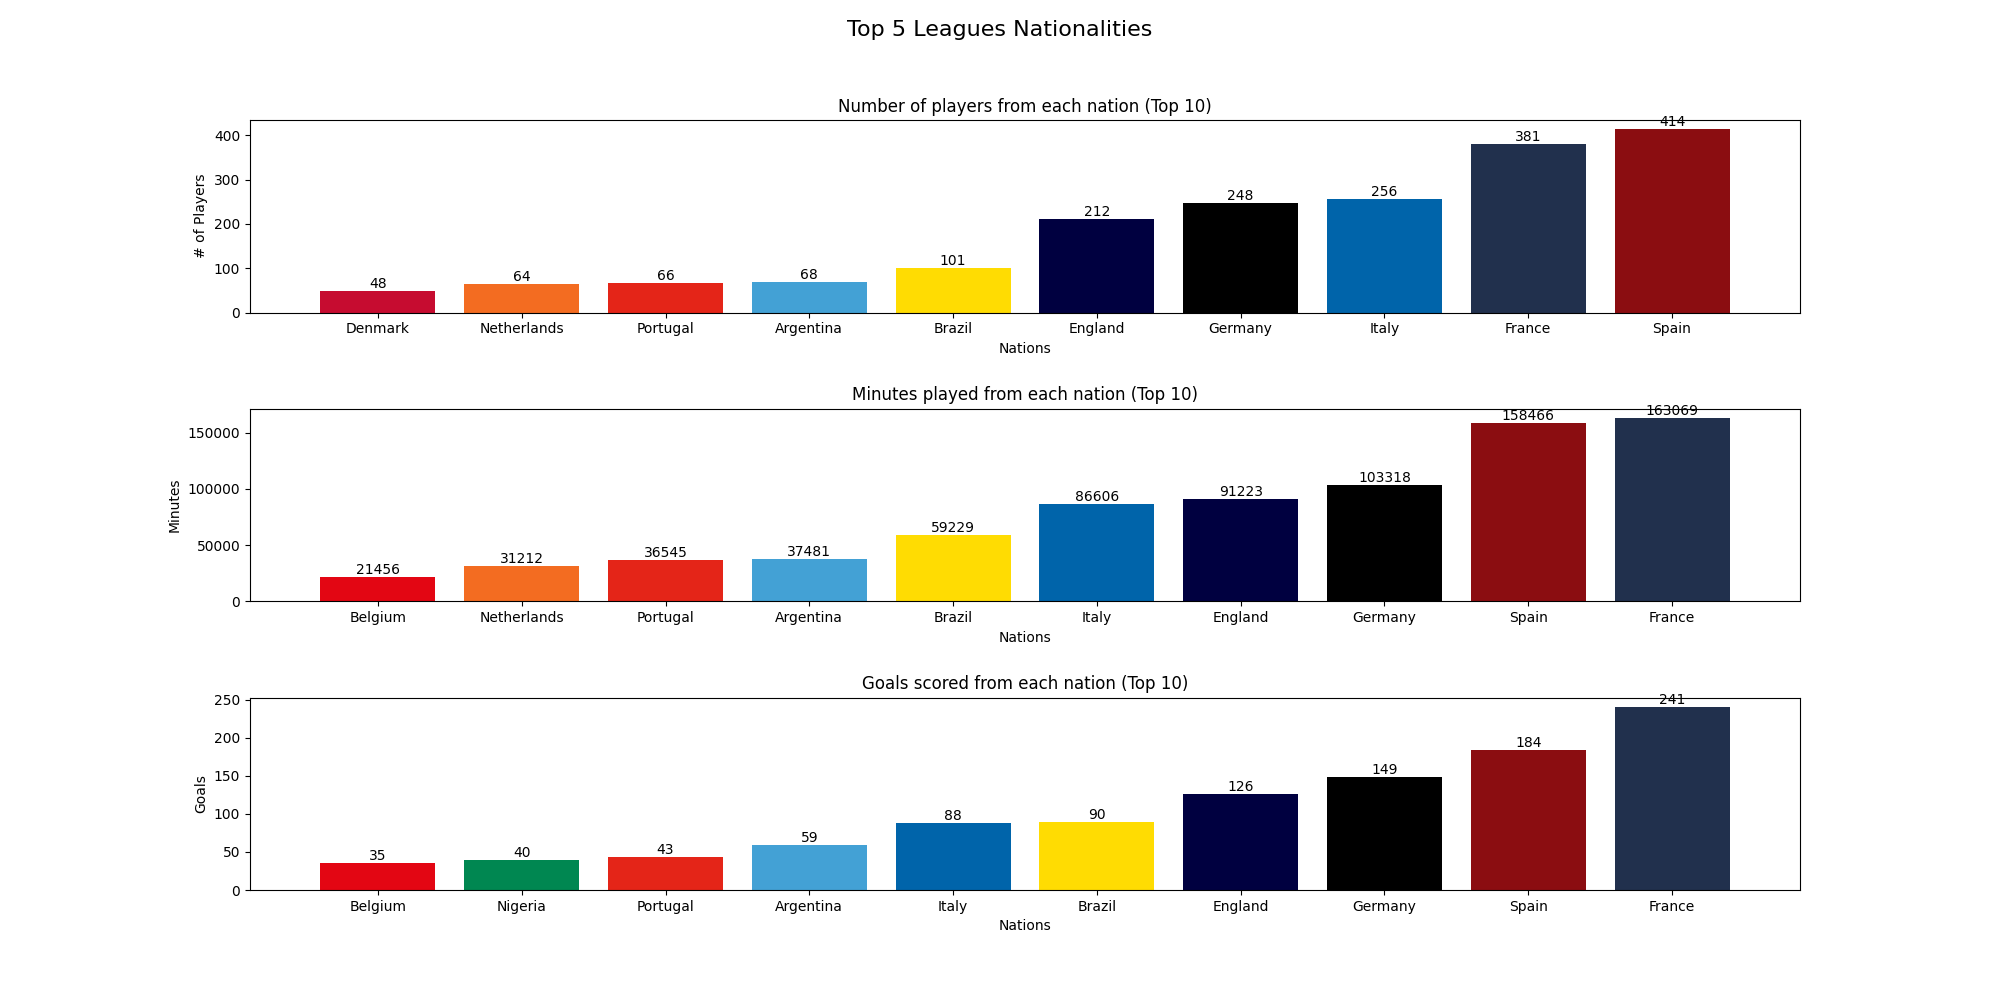
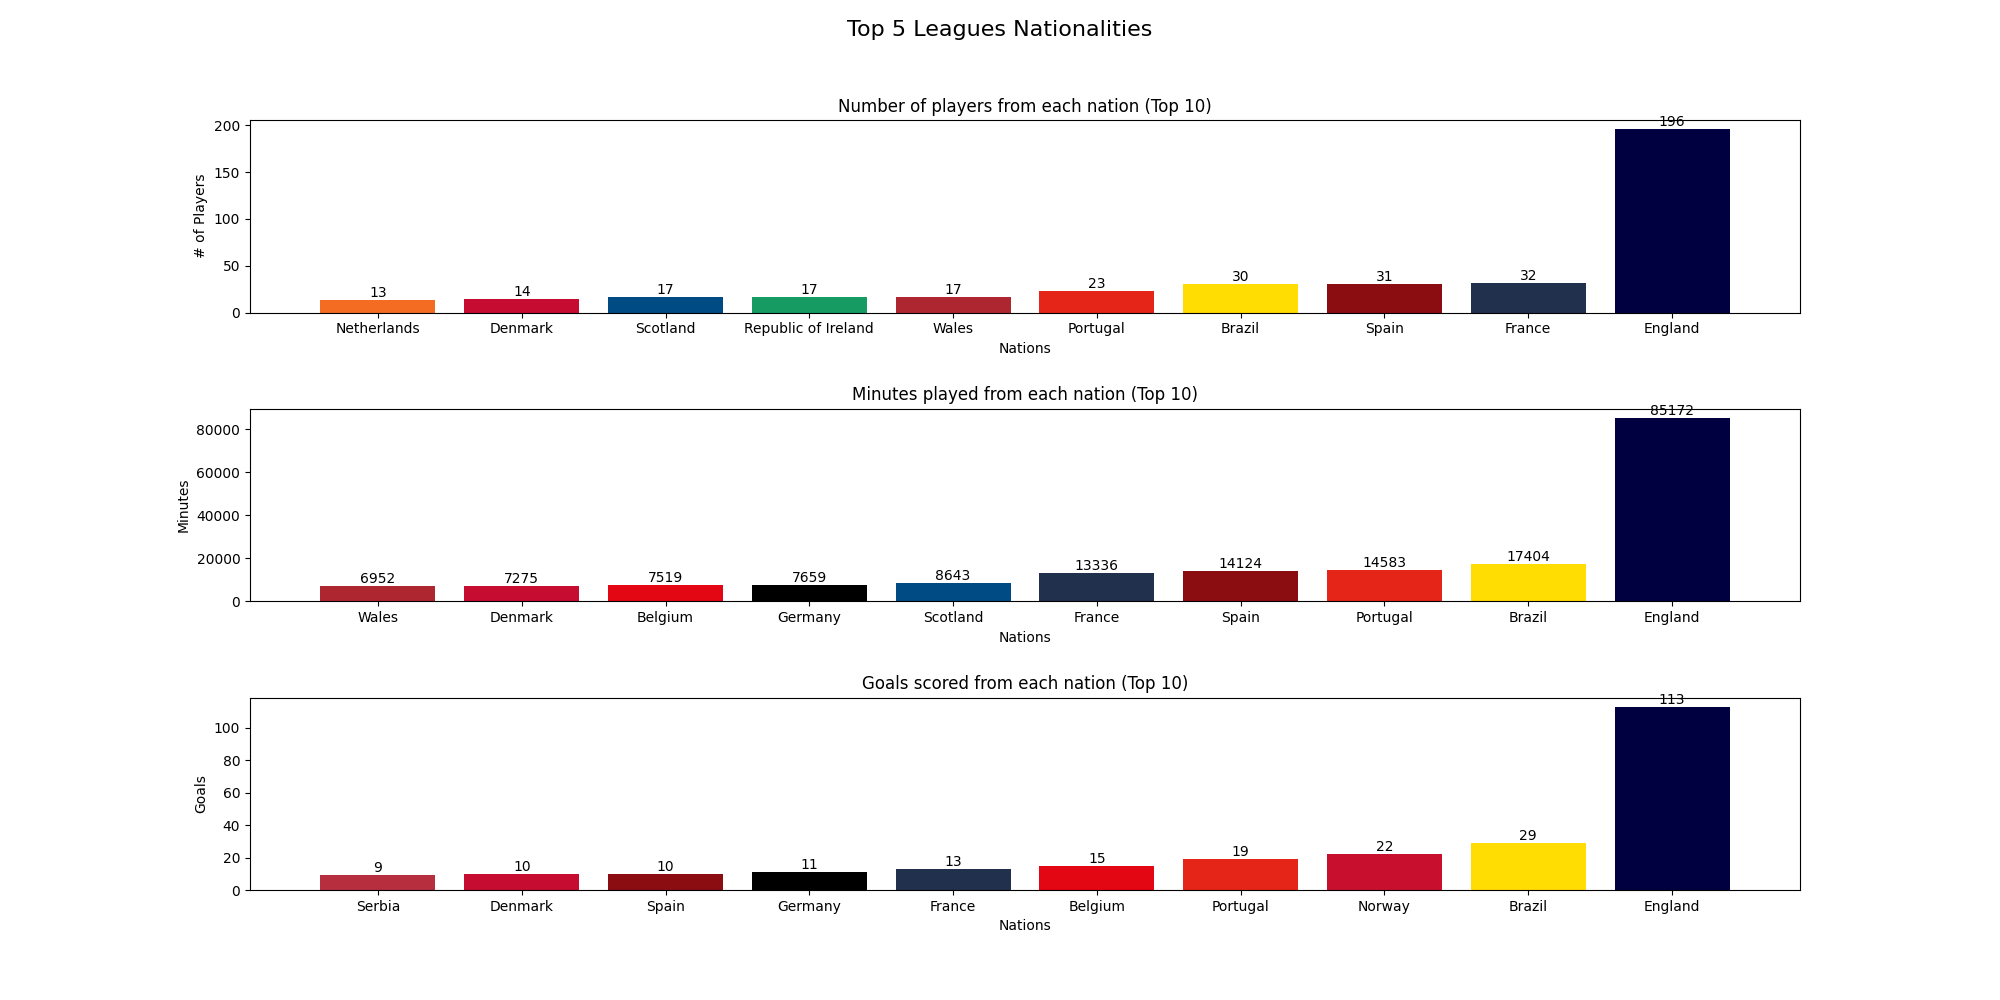
Changed text size, added background colour

diff --git a/nationalities.py b/nationalities.py
@@ -200,21 +200,28 @@ def nations_played(urls):
         fig = plt.figure(figsize=(20, 10))
         fig.subplots_adjust(hspace=0.5)
         gs = GridSpec(nrows=3, ncols=1)
-        fig.suptitle(f'{comp_title} Nationalities', fontsize=16)
+        fig.suptitle(f'{comp_title} Nationalities', fontsize=22)
+        fig.patch.set_facecolor('mediumpurple')
         
         ax0 = fig.add_subplot(gs[0, 0])
-        bars = ax0.bar(df_players["Nation"], df_players["# Players"], color=team_colours(df_players["Nation"]))
-        ax0.bar_label(bars)
-        ax0.set_title('Number of players from each nation (Top 10)')
-        ax0.set_xlabel('Nations')
-        ax0.set_ylabel('# of Players')
+        bars = ax0.bar(df_players["Nation"], df_players["# Players"], color=team_colours(df_players["Nation"]), linewidth=10)
+        ax0.bar_label(bars, size=16)
+        ax0.set_title('Number of players from each nation (Top 10)', size=20)
+        ax0.set_xlabel('Nations', size=16)
+        ax0.set_ylabel('# of Players', size=16)
+        ax0.set_facecolor('mediumpurple')
+        for label in (ax0.get_xticklabels() + ax0.get_yticklabels()):
+            label.set_fontsize(14)
 
         ax1 = fig.add_subplot(gs[1, 0])
-        bars = ax1.bar(df_times["Nation"], df_times["Min"], color=team_colours(df_times["Nation"]))
-        ax1.bar_label(bars)
-        ax1.set_title('Number of minutes played by nation (Top 10)')
-        ax1.set_xlabel('Nations')
-        ax1.set_ylabel('Minutes')
+        bars = ax1.bar(df_times["Nation"], df_times["Min"], color=team_colours(df_times["Nation"]), linewidth=10)
+        ax1.bar_label(bars, size=16)
+        ax1.set_title('Number of minutes played by nation (Top 10)', size=20)
+        ax1.set_xlabel('Nations', size=16)
+        ax1.set_ylabel('Minutes', size=16)
+        ax1.set_facecolor('mediumpurple')
+        for label in (ax1.get_xticklabels() + ax1.get_yticklabels()):
+            label.set_fontsize(14)
 
         df = get_goals(goals_url)
 
@@ -231,11 +238,14 @@ def nations_played(urls):
                 df_sum.at[i,'Nation'] = country
 
         ax2 = fig.add_subplot(gs[2, 0])
-        bars = ax2.bar(df_sum["Nation"], df_sum["Goals"], color=team_colours(df_sum["Nation"]))
-        ax2.bar_label(bars)
-        ax2.set_title('Number of goals scored from each nation (Top 10)')
-        ax2.set_xlabel('Nations')
-        ax2.set_ylabel('Goals')
+        bars = ax2.bar(df_sum["Nation"], df_sum["Goals"], color=team_colours(df_sum["Nation"]), linewidth=10)
+        ax2.bar_label(bars, size=16)
+        ax2.set_title('Number of goals scored from each nation (Top 10)', size=20)
+        ax2.set_xlabel('Nations', size=16)
+        ax2.set_ylabel('Goals', size=16)
+        ax2.set_facecolor('mediumpurple')
+        for label in (ax2.get_xticklabels() + ax2.get_yticklabels()):
+            label.set_fontsize(14)
 
         # fig.savefig(f'images/{competition}-nations.png', transparent=True)
         fig.savefig(f'images/{competition}-nations.png')
@@ -246,7 +256,12 @@ def nations_played(urls):
         #     img1.paste(img2, (0,0), mask = img2)
         #     img1.save('hello2.png')
         
-        # break
+        # img1 = Image.open('images/epl-nations.png')
+        # img2 = Image.open('logos/pl.png')
+        # img1.paste(img2, (0,0), mask = img1)
+        # img1.save('hello2.png')
+
+        break
 
         # plt.show()
 
